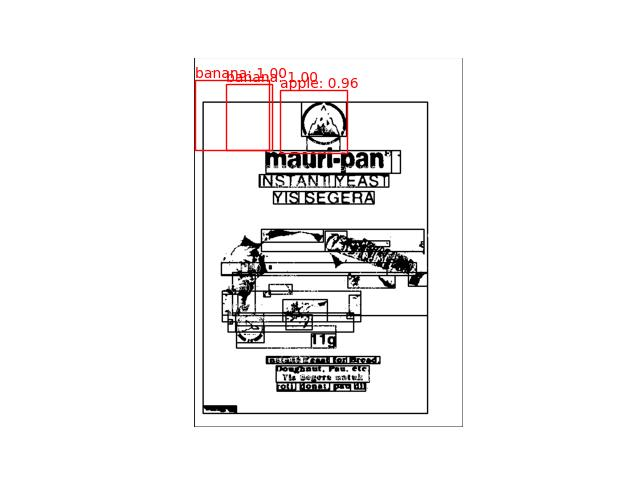
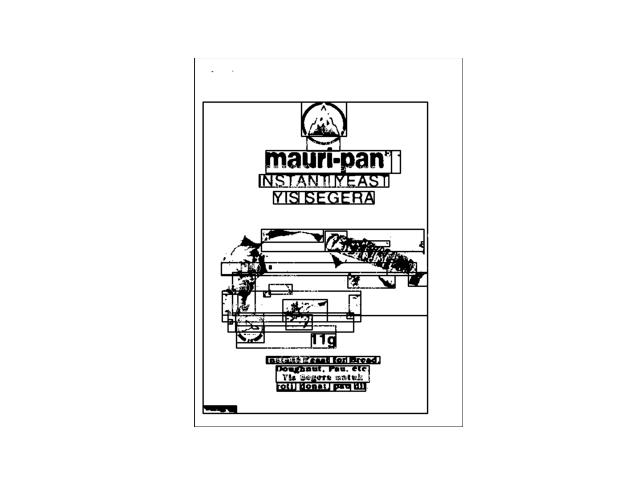
refined text detection

Changed region(s): [[0.2812, 0.125, 0.5625, 0.3438]]

diff --git a/server/text_detection/compare_models.py b/server/text_detection/compare_models.py
@@ -10,12 +10,11 @@ processor = TrOCRProcessor.from_pretrained('microsoft/trocr-small-printed')
 trocr_model = VisionEncoderDecoderModel.from_pretrained('microsoft/trocr-small-printed')
 
 # Load Tesseract model
-pytesseract.pytesseract.tesseract_cmd = r'text_detection/Tesseract-OCR/tesseract.exe'
+pytesseract.pytesseract.tesseract_cmd = r'server/text_detection/Tesseract-OCR/tesseract.exe'
 
 # Load image
-image_path = 'text_detection/sample_images/yeast.jpg'
+image_path = 'server/text_detection/sample_images/yeast.jpg'
 image = cv2.imread(image_path)
-original_image = image.copy()  # Make a copy for drawing bounding boxes later
 
 # Text detection using trOCR model
 trocr_image = Image.open(image_path).convert("RGB")
@@ -27,23 +26,5 @@ print("Text detected using trOCR model:", generated_text)
 # Text detection using Tesseract model
 text_detected = []
 tesseract_text = pytesseract.image_to_data(image, lang='eng', config='--oem 3 --psm 6', output_type=pytesseract.Output.DICT)
-for i in range(len(tesseract_text['text'])):
-    if int(tesseract_text['conf'][i]) > 50:  # Only consider confident detections
-        text_detected.append(tesseract_text['text'][i])
+text_detected.append(tesseract_text['text'])
 print("Text detected using Tesseract model:", text_detected)
-
-# Draw bounding boxes around the text detected with Tesseract model
-for i in range(len(tesseract_text['text'])):
-    if int(tesseract_text['conf'][i]) > 50:  # Only consider confident detections
-        left = tesseract_text['left'][i]
-        top = tesseract_text['top'][i]
-        width = tesseract_text['width'][i]
-        height = tesseract_text['height'][i]
-        text = tesseract_text['text'][i]
-        cv2.rectangle(image, (left, top), (left + width, top + height), (0, 0, 255), 2)  # Red color
-        cv2.putText(image, text, (left, top - 10), cv2.FONT_HERSHEY_SIMPLEX, 0.5, (0, 0, 255), 1)  # Red color
-
-plt.imshow(cv2.cvtColor(image, cv2.COLOR_BGR2RGB))
-plt.title("Text Detection using Tesseract")
-plt.axis('off')
-plt.show()

diff --git a/server/text_detection/utils/preprocessing_testing.py b/server/text_detection/utils/preprocessing_testing.py
@@ -47,7 +47,7 @@ def preprocess_image(image):
 
 
 # Function to detect text in the image
-def detect_text(image, confidence_threshold):
+def detect_text(image):
     detected_text_list = []
 
     # Get word-level bounding box coordinates, text, and confidence scores
@@ -161,7 +161,8 @@ def get_text_detection(image_path, image_name):
     return detected_ingredients
 
 
-image_names = ['sugar.jpeg', 'flour.jpg', 'milk_powder.jpeg']
+# image_names = ['sugar.jpeg', 'flour.jpg', 'milk_powder.jpeg']
+image_names = ['yeast.jpg']
 for image_name in image_names:
     image_path = f'server/text_detection/sample_images/{image_name}'
     detected_ingredients = get_text_detection(image_path, image_name)
